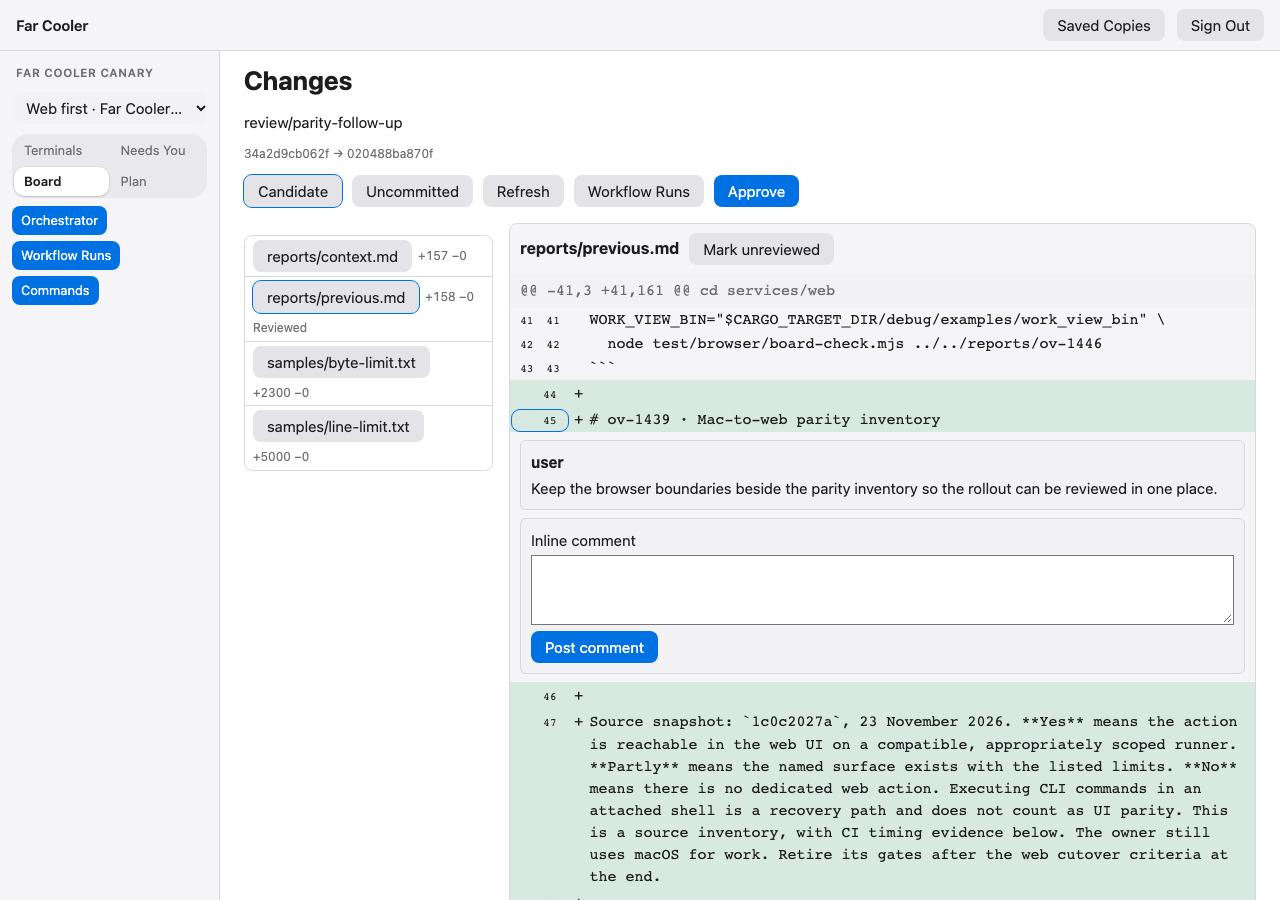
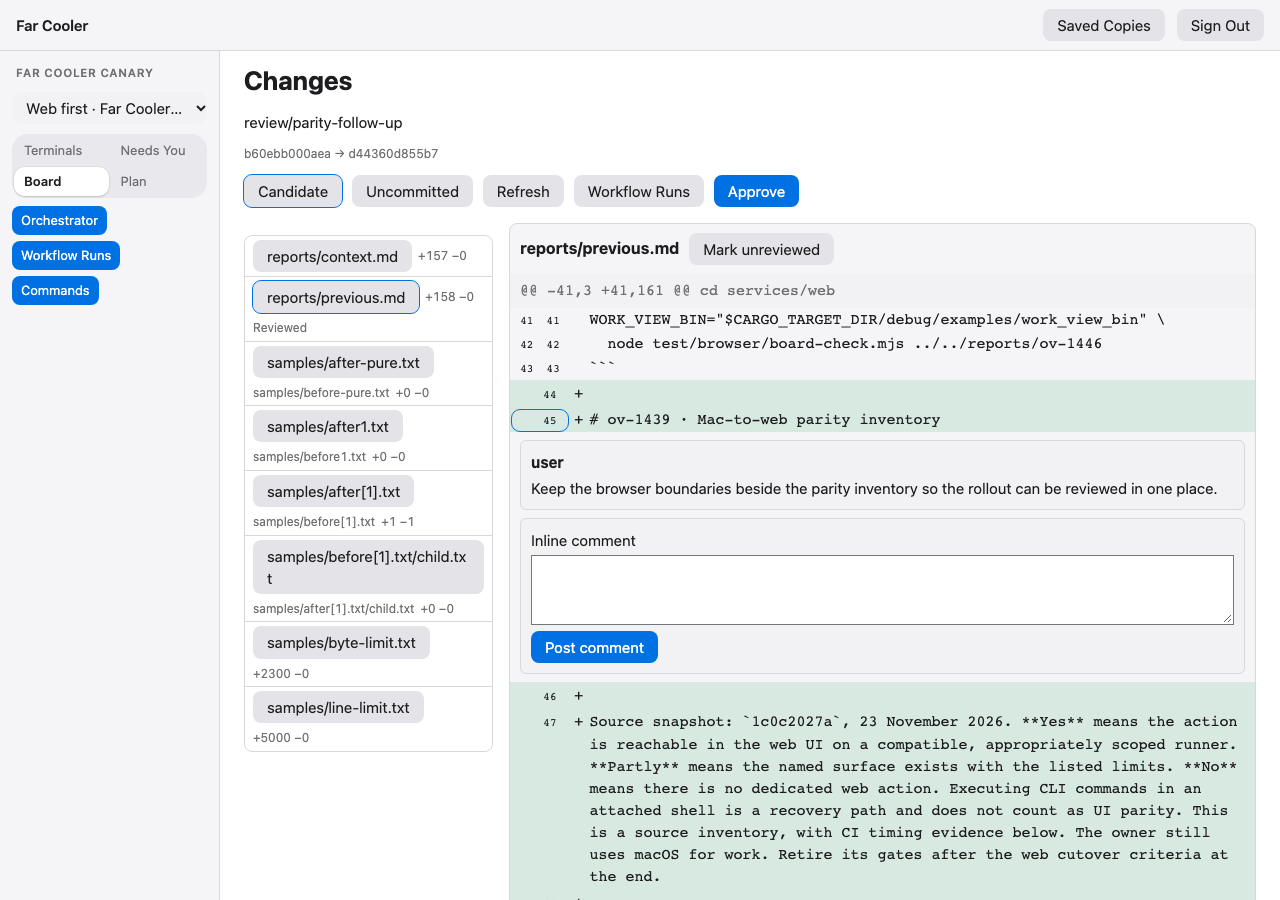
ov-1458: preserve both sides of renamed file diffs
(cherry picked from commit ddea9aa37c715bcfe9eacbf24bf1bc9039a37c44)

Changed region(s): [[0.1875, 0.3733, 0.4062, 0.84], [0.1875, 0.1556, 0.3438, 0.1867], [0.2188, 0.4356, 0.25, 0.4667]]

diff --git a/crates/client/src/session/workflow/tests/socket/web_review.rs b/crates/client/src/session/workflow/tests/socket/web_review.rs
@@ -14,6 +14,13 @@ struct ReviewFixture {
     key: String,
 }
 
+const PURE_SOURCE: &str = "samples/before-pure.txt";
+const PURE_DESTINATION: &str = "samples/after-pure.txt";
+const EDITED_SOURCE: &str = "samples/before[1].txt";
+const EDITED_DESTINATION: &str = "samples/after[1].txt";
+const RENAME_TEXT: &str =
+    "first line\nsecond line\nthird line\noriginal line\nfifth line\nsixth line\nseventh line\n";
+
 fn git(path: &Path, args: &[&str]) -> String {
     let out = Process::new("git")
         .current_dir(path)
@@ -57,6 +64,16 @@ async fn fixture() -> (Harness, ReviewFixture) {
         let brief = include_str!("../../../../../../../reports/ov-1446/README.md");
         let inventory = include_str!("../../../../../../../reports/ov-1439/parity.md");
         fs::write(checkout.join("reports/previous.md"), brief).unwrap();
+        fs::create_dir(checkout.join("samples")).unwrap();
+        fs::write(checkout.join(PURE_SOURCE), brief).unwrap();
+        fs::write(checkout.join(EDITED_SOURCE), RENAME_TEXT).unwrap();
+        fs::write(checkout.join("samples/before1.txt"), "unrelated rename\n").unwrap();
+        fs::create_dir(checkout.join(EDITED_DESTINATION)).unwrap();
+        fs::write(
+            checkout.join(EDITED_DESTINATION).join("child.txt"),
+            "unrelated child rename\n",
+        )
+        .unwrap();
         git(&checkout, &["add", "."]);
         git(
             &checkout,
@@ -69,7 +86,27 @@ async fn fixture() -> (Harness, ReviewFixture) {
         )
         .unwrap();
         fs::write(checkout.join("reports/context.md"), inventory).unwrap();
-        fs::create_dir(checkout.join("samples")).unwrap();
+        fs::rename(checkout.join(PURE_SOURCE), checkout.join(PURE_DESTINATION)).unwrap();
+        // Both endpoints can match directories, and unescaped brackets can
+        // match the similarly named third rename.
+        let directory = checkout.join("samples/moved-directory");
+        fs::rename(checkout.join(EDITED_DESTINATION), &directory).unwrap();
+        fs::rename(
+            checkout.join(EDITED_SOURCE),
+            checkout.join(EDITED_DESTINATION),
+        )
+        .unwrap();
+        fs::rename(&directory, checkout.join(EDITED_SOURCE)).unwrap();
+        fs::rename(
+            checkout.join("samples/before1.txt"),
+            checkout.join("samples/after1.txt"),
+        )
+        .unwrap();
+        fs::write(
+            checkout.join(EDITED_DESTINATION),
+            RENAME_TEXT.replace("original line", "edited line"),
+        )
+        .unwrap();
         // Cross the byte and line limits independently in Git-generated patches.
         fs::write(
             checkout.join("samples/byte-limit.txt"),
@@ -155,6 +192,75 @@ async fn fixture() -> (Harness, ReviewFixture) {
     })
     .await;
     (harness, fixture.unwrap())
+}
+
+#[tokio::test]
+async fn web_review_socket_projects_pure_and_edited_renames() {
+    let (h, fixture) = fixture().await;
+    let session = Session::connect_local(&h.socket).await.unwrap();
+    let read = async |req| {
+        session
+            .web_review(
+                h.workspace,
+                fixture.ticket,
+                serde_json::from_value(req).unwrap(),
+            )
+            .await
+            .unwrap()
+    };
+    let initial = read(json!({"view":"changes"})).await;
+    for (source, destination, stats) in [
+        (PURE_SOURCE, PURE_DESTINATION, "+0 −0"),
+        (EDITED_SOURCE, EDITED_DESTINATION, "+1 −1"),
+    ] {
+        let file = initial["files"]
+            .as_array()
+            .unwrap()
+            .iter()
+            .find(|file| file["path"] == destination)
+            .unwrap();
+        assert_eq!(file["oldPath"], source);
+        assert_eq!(file["stats"], stats);
+        let view = read(json!({"view":"changes","position":file["position"]})).await;
+        assert_eq!(view["mark"]["label"], "Mark reviewed");
+        let hunks = view["diff"]["hunks"].as_array().unwrap();
+        if destination == PURE_DESTINATION {
+            assert!(
+                hunks.is_empty(),
+                "pure rename carried text hunks: {hunks:?}"
+            );
+            assert_eq!(view["diff"]["notice"], "No text changes in this file.");
+        } else {
+            assert_eq!(hunks.len(), 1);
+            let lines = hunks[0]["lines"].as_array().unwrap();
+            let edits: Vec<_> = lines.iter().filter(|line| line["sign"] != " ").collect();
+            assert_eq!(edits.len(), 2);
+            assert_eq!(edits[0]["text"], "original line");
+            assert_eq!(edits[0]["oldNumber"], 4);
+            assert!(edits[0]["newNumber"].is_null());
+            assert_eq!(edits[1]["text"], "edited line");
+            assert_eq!(edits[1]["newNumber"], 4);
+            assert!(edits[1]["oldNumber"].is_null());
+            assert_ne!(edits[0]["id"], edits[1]["id"]);
+            let position = &edits[0]["position"];
+            let posted = read(json!({"view":"changes","position":position,"edit":{
+                "action":"comment","body":"Keep the original wording here."
+            }}))
+            .await;
+            assert_eq!(posted["position"], *position);
+            let restored = read(json!({"view":"changes","position":position})).await;
+            let old_line = &restored["diff"]["hunks"][0]["lines"][3];
+            assert_eq!(old_line["id"], edits[0]["id"]);
+            assert_eq!(
+                old_line["comments"][0]["body"],
+                "Keep the original wording here."
+            );
+        }
+        let reviewed =
+            read(json!({"view":"changes","position":view["position"],"edit":view["mark"]["edit"]}))
+                .await;
+        assert_eq!(reviewed["mark"]["label"], "Mark unreviewed");
+    }
 }
 
 #[tokio::test]

diff --git a/crates/daemon/src/file_diff.rs b/crates/daemon/src/file_diff.rs
@@ -99,6 +99,43 @@ async fn diff_args(repo: &Path, selector: &Selector) -> Result<(Vec<String>, boo
     })
 }
 
+/// Git detects renames after applying pathspecs, so find the pair on the
+/// unfiltered comparison before asking for patch text for the two endpoints.
+async fn rename_source(repo: &Path, rev_args: &[String], path: &str) -> Result<Option<String>> {
+    let mut args = vec!["diff", "--name-status", "-z", "--find-renames", "--diff-filter=R"];
+    args.extend(rev_args.iter().map(String::as_str));
+    args.push("--");
+    let raw = git_bytes(repo, &args).await?;
+    if !raw.ok {
+        return Err(DomainError::OperationFailed);
+    }
+    // Each rename has three NUL-delimited fields: R<score>, source, destination.
+    let mut fields = raw.stdout.split(|&b| b == 0);
+    while let (Some(_status), Some(source), Some(destination)) =
+        (fields.next(), fields.next(), fields.next())
+    {
+        if destination == path.as_bytes() {
+            let source = std::str::from_utf8(source).map_err(|_| DomainError::OperationFailed)?;
+            return Ok(Some(source.to_owned()));
+        }
+    }
+    Ok(None)
+}
+
+/// A literal filename match that also excludes descendants. A rename endpoint
+/// can be a directory on the other side of the diff. Force Git's glob matcher
+/// with an initial escape, and escape all glob metacharacters in the filename.
+fn exact_pathspec(path: &str) -> String {
+    let mut spec = String::from(":(glob)");
+    for (index, ch) in path.chars().enumerate() {
+        if index == 0 || matches!(ch, '\\' | '*' | '?' | '[') {
+            spec.push('\\');
+        }
+        spec.push(ch);
+    }
+    spec
+}
+
 /// Whether `path` is a file git lists as untracked (and not ignored).
 ///
 /// Also the confinement check for the untracked read: `ls-files` refuses a
@@ -240,17 +277,22 @@ pub async fn file_diff(
     for a in &rev_args {
         args.push(a);
     }
-    // The returned patch is anchored to exactly this file. A Git pathspec
-    // metacharacter in its name must not include another file in the reply.
-    let pathspec = format!(":(literal){path}");
-    args.push("--");
-    args.push(&pathspec);
-
     let patch = if let Some(p) = untracked_patch {
         p
     } else {
+        let rename_source = rename_source(repo, &rev_args, path).await?;
+        let pathspecs = if let Some(source) = rename_source.as_deref() {
+            // A second read of a mutable comparison can lose the rename.
+            // Refuse that result rather than returning an add or delete.
+            args.push("--diff-filter=R");
+            vec![exact_pathspec(source), exact_pathspec(path)]
+        } else {
+            vec![format!(":(literal){path}")]
+        };
+        args.push("--");
+        args.extend(pathspecs.iter().map(String::as_str));
         let raw = git_bytes(repo, &args).await?;
-        if !raw.ok {
+        if !raw.ok || (rename_source.is_some() && raw.stdout.is_empty()) {
             return Err(DomainError::OperationFailed);
         }
         // Patch text is read lossily on purpose: a file whose CONTENT is not

diff --git a/reports/ov-1458/README.md b/reports/ov-1458/README.md
@@ -19,6 +19,8 @@ The browser check runs the production ticket and review renderers against an iso
 
 The Rust client suite covers stable anchors, current and stale candidates, read-scope refusal and rooted file reads. Against Git-generated patches, it also checks that both caps reject direct mark requests, including requests with a later hunk offset. The daemon diff suite checks that a pinned patch stays on its candidate after HEAD moves. The Web Rust, Web unit and workflow suites, Board and Work browser checks, both TypeScript checks, WASM build, and Canary wire and shared-core linters passed.
 
+The socket review tests exercise pure and edited renames from a real Git candidate. A pure rename has no text hunks. An edited rename shows the original and replacement lines with their respective line numbers, and a comment on the original line reopens at the same anchor. The fixture includes other renames with similar names and nested paths to check that each patch stays on its selected file.
+
 To rerun the browser check with the Web dependencies and Playwright Chromium installed, start the fixture from the repository root.
 
 ```sh
